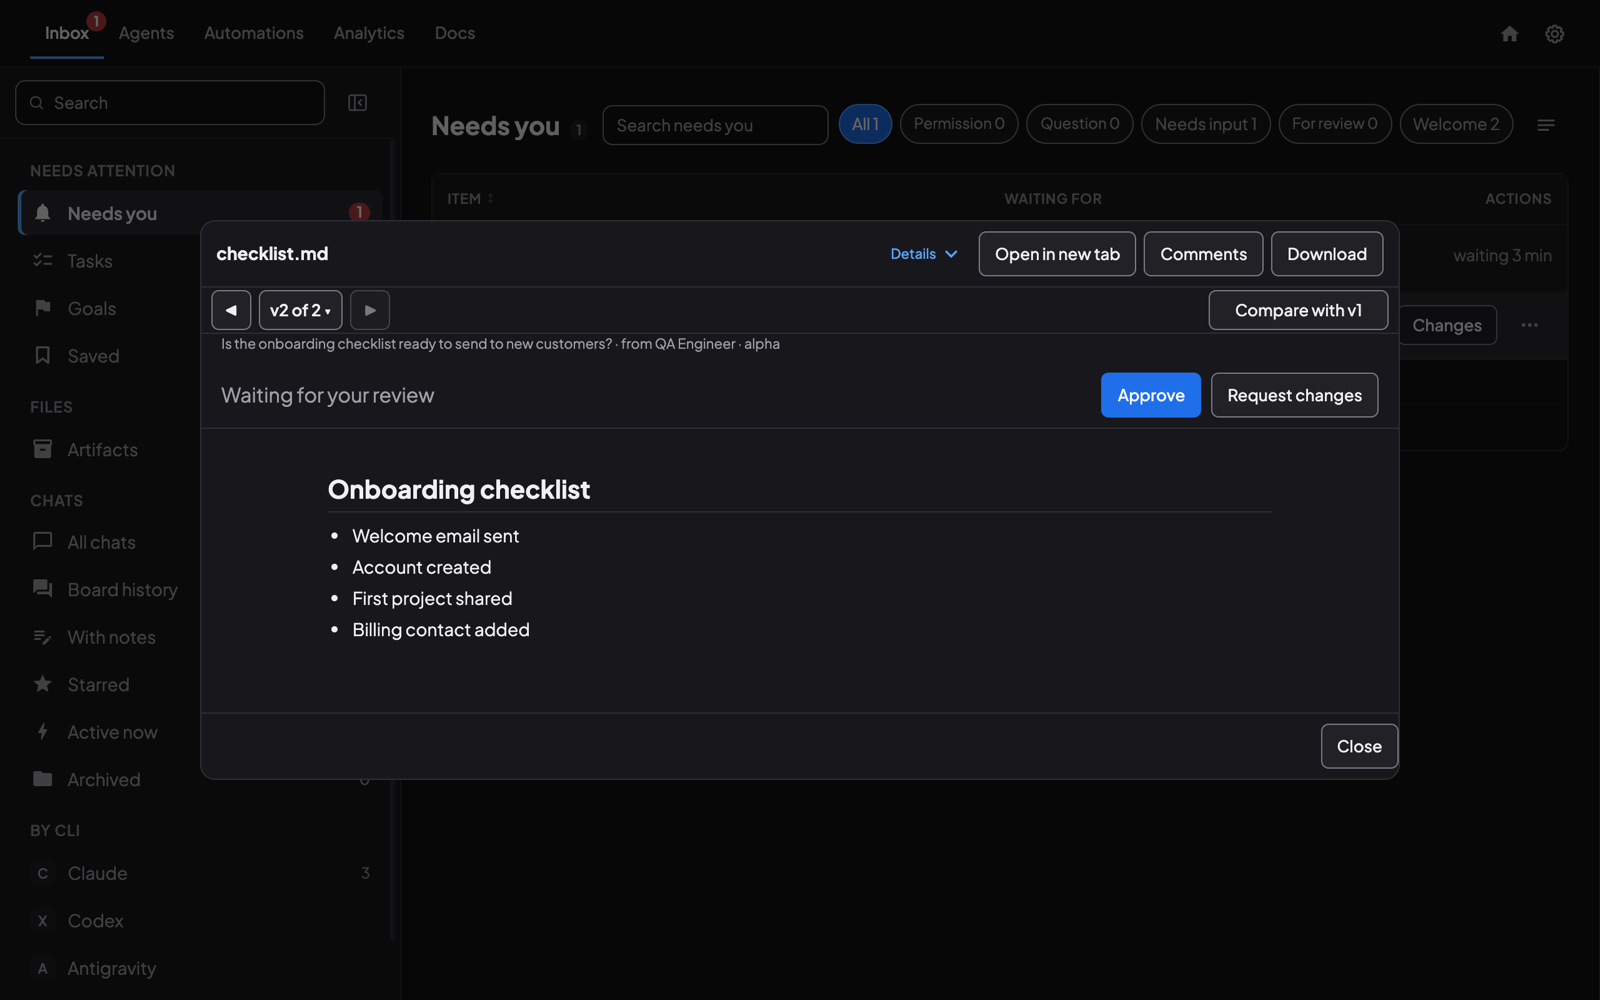
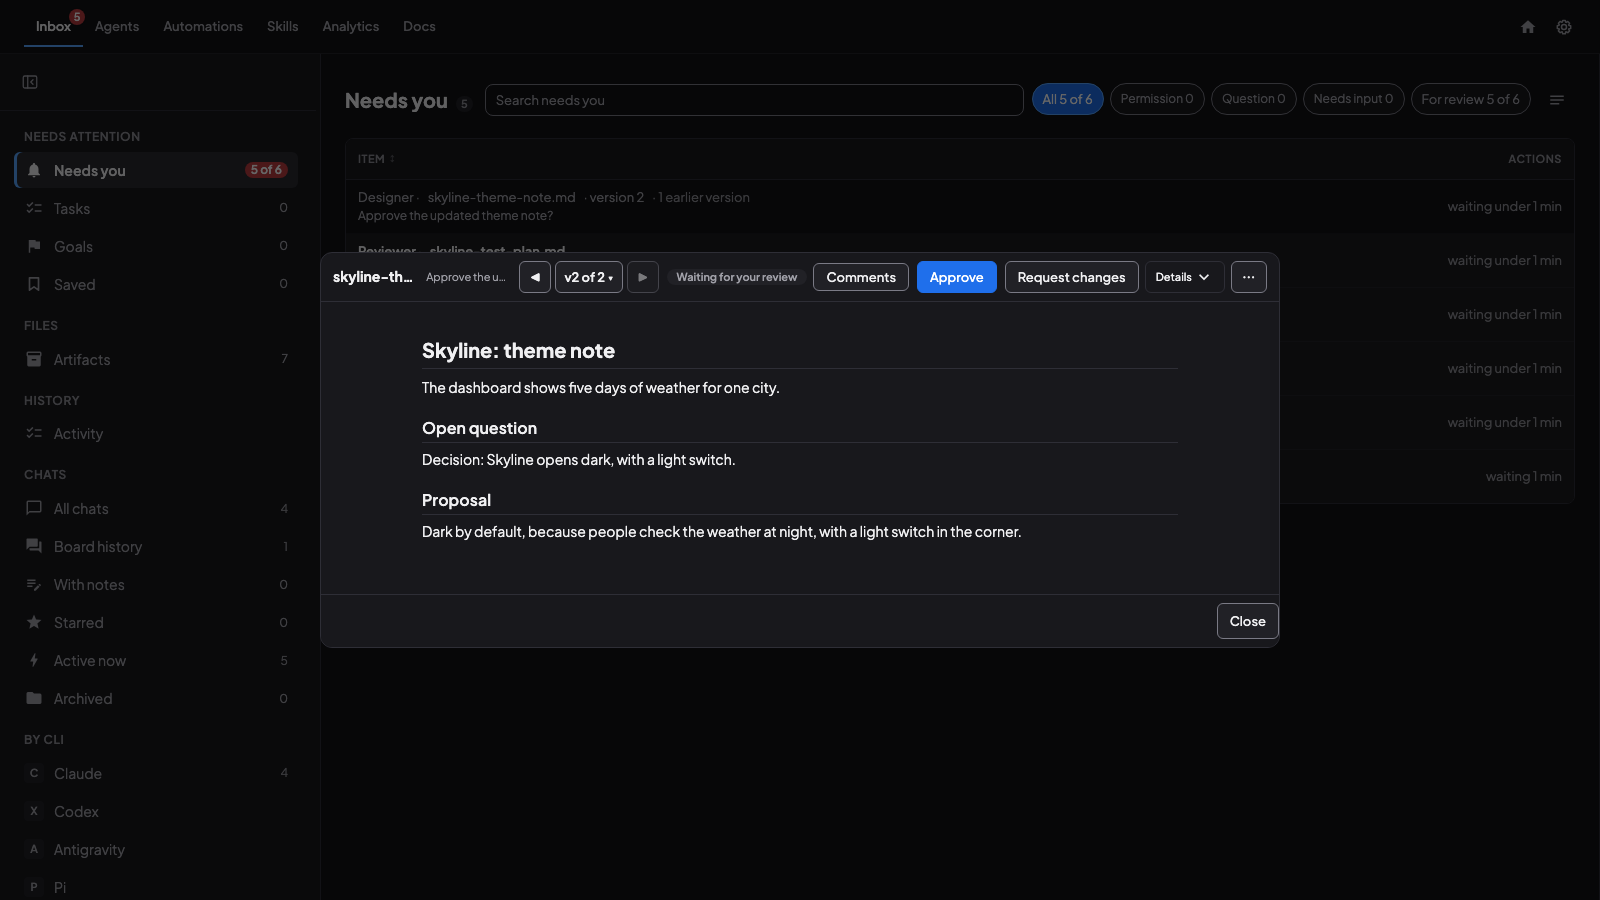
README: the two review stills re-shot on v2.0.41 with the demo rig (Skyline sample data, compact file viewer, 1600 px, leak check on), referenced once each; tools/demo/scripts/stills.mjs makes them (#12519)

diff --git a/README.md b/README.md
@@ -38,6 +38,12 @@
 </p>
 
 <p align="center">
+  <img alt="A file in Coral's review space: version 2 of 2 with Compare, and Approve and Request changes" src="assets/readme/review-approve.png" width="100%" />
+  <br>
+  <sub>A file an agent made, waiting for your review: read it, Approve or Request changes. (Sample data.)</sub>
+</p>
+
+<p align="center">
   
 <img width="100%" alt="Needs You for review and questions" src="https://github.com/user-attachments/assets/2c995cf7-7a5b-4be0-94ad-ee5e3efd4552" />
 
@@ -58,6 +64,12 @@ curl -fsSL \
   https://raw.githubusercontent.com/subgentic/coral/main/install.sh \
   | bash
 ```
+
+<p align="center">
+  <img alt="Compare: what changed between version 1 and version 2 of a file, the added line marked" src="assets/readme/review-compare.png" width="100%" />
+  <br>
+  <sub>Compare with the earlier version: what changed, marked. (Sample data.)</sub>
+</p>
 
 Coral wraps the agent CLIs you already use (Claude Code, Codex, Antigravity, Pi and OpenCode, and Hermes, which is experimental). It calls no AI API itself: your keys, your subscriptions, your tools. It runs as one Go binary on your laptop or a remote box.
 

diff --git a/tools/demo/README.md b/tools/demo/README.md
@@ -20,6 +20,7 @@ tools/demo/
     setup.mjs           makes the throwaway project and launches the team from story.json
     hubclip.mjs         the closing public-page clip (loads and scrolls a page, signed out, types nothing)
     shot.mjs            a headless screenshot of one dashboard page (for looking, not for the film)
+    stills.mjs          the two README review stills (a rig with the team, then take.mjs seed, then node stills.mjs <outdir>)
     encode.sh           clips to the 16:9 master, the 9:16 phone cut and the GIF
   story.json            the example the film tells: team, agents, goal, tasks, the Inbox documents, the board chatter, the live comment, the code change
   seed/                 the documents and the code change those refer to
